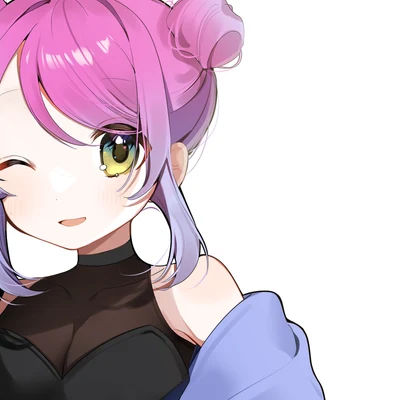
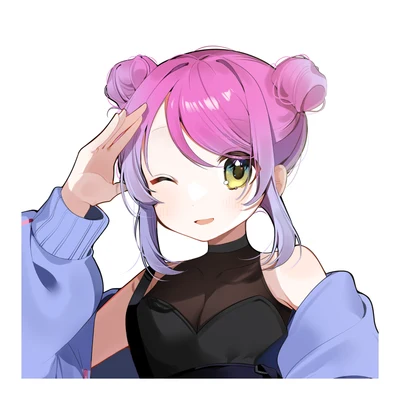
ぱんみみさんの紹介文とアイコンの位置を、本人の依頼どおりに直す

diff --git a/tools/_panmimi_src_1003.js b/tools/_panmimi_src_1003.js
@@ -1,0 +1,23 @@
+// ぱんみみさんの素材（Drive）を手元に落とす。アイコンの切り抜きを直すための確認用（2026-10-03）
+//   使い方: node _panmimi_src_1003.js <出力フォルダ>
+const fs = require("fs");
+const path = require("path");
+require("dotenv").config({ path: path.join(__dirname, "..", "..", "e-katsu", ".env") });
+const { google } = require("googleapis");
+const a = new google.auth.OAuth2(process.env.GOOGLE_CLIENT_ID, process.env.GOOGLE_CLIENT_SECRET);
+a.setCredentials({ refresh_token: process.env.GOOGLE_REFRESH_TOKEN });
+const drive = google.drive({ version: "v3", auth: a });
+const PARENT = process.env.VTUBER_DELIVERY_PARENT_ID || "1OYvATSqyoo8E-sl2WvVS4Ev9pFgwoH7U";
+const out = process.argv[2];
+const ls = async (q, fields) => (await drive.files.list({ q, fields: `files(${fields})`, pageSize: 100, supportsAllDrives: true, includeItemsFromAllDrives: true })).data.files || [];
+(async () => {
+  const person = (await ls(`name = 'ぱんみみ' and '${PARENT}' in parents and mimeType = 'application/vnd.google-apps.folder' and trashed = false`, "id,name"))[0];
+  const assets = (await ls(`name = '02_2Dデータ素材' and '${person.id}' in parents and trashed = false`, "id,name"))[0];
+  const files = await ls(`'${assets.id}' in parents and trashed = false`, "id,name,mimeType,createdTime,imageMediaMetadata(width,height)");
+  for (const f of files) {
+    console.log(f.name, f.createdTime, f.imageMediaMetadata ? f.imageMediaMetadata.width + "x" + f.imageMediaMetadata.height : "");
+    if (!/^image\//.test(f.mimeType || "")) continue;
+    const r = await drive.files.get({ fileId: f.id, alt: "media", supportsAllDrives: true }, { responseType: "arraybuffer" });
+    fs.writeFileSync(path.join(out, "pm_" + f.name), Buffer.from(r.data));
+  }
+})().catch(e => { console.error("ERROR:", e.message); process.exit(1); });

diff --git a/news/supporter-2026-09-28.html b/news/supporter-2026-09-28.html
@@ -58,7 +58,7 @@
         </figure>
         <p>e活が協賛する大会を、カジュアルに応援してくれる「e活カジュアルサポーター」に、新しく2名の仲間が加わりました。</p>
         <ul>
-          <li><strong>ぱんみみ</strong>｜Call of Dutyを中心に、視聴者さんとコミュニケーションを取りながら楽しく配信しています。 <a target="_blank" rel="noopener" href="https://x.com/pan_33_mimi">@pan_33_mimi</a></li>
+          <li><strong>ぱんみみ</strong>｜Call of Dutyを中心に配信。eスポーツが好きで、遊ぶのも観るのも楽しんでいます。 <a target="_blank" rel="noopener" href="https://x.com/pan_33_mimi">@pan_33_mimi</a></li>
           <li><strong>ぺんぺん</strong>｜方言をうまく利用して遊びに来てくれた人はみんな友達をテーマに配信しています。 VALORANT / APEX Legends。 <a target="_blank" rel="noopener" href="https://x.com/Nissy14843663">@Nissy14843663</a></li>
         </ul>
         <p>プロフィールの詳細は <a href="../vtuber.html">VTuber一覧ページ</a> からご覧いただけます。応援よろしくお願いいたします！</p>

diff --git a/tools/_merge_supporter_1003.js b/tools/_merge_supporter_1003.js
@@ -9,7 +9,7 @@ const ROOT = path.join(__dirname, "..");
 const { publishSupporterNews } = require("./supporter-news");
 
 const people = [
-  { slug: "vt18", name: "ぱんみみ", displayName: "ぱんみみ", bio: "Call of Dutyを中心に、視聴者さんとコミュニケーションを取りながら楽しく配信しています。", xHandle: "@pan_33_mimi" },
+  { slug: "vt18", name: "ぱんみみ", displayName: "ぱんみみ", bio: "Call of Dutyを中心に配信。eスポーツが好きで、遊ぶのも観るのも楽しんでいます。", xHandle: "@pan_33_mimi" },
   { slug: "vt19", name: "ぺんぺん", displayName: "ぺんぺん", bio: "方言をうまく利用して遊びに来てくれた人はみんな友達をテーマに配信しています。 VALORANT / APEX Legends。", xHandle: "@Nissy14843663" },
 ];
 const OLD = "supporter-2026-09-24", KEEP = "supporter-2026-09-28";

diff --git a/vtuber.html b/vtuber.html
@@ -263,7 +263,7 @@
         <article class="vt-card">
           <img class="vt-card__photo" src="assets/img/vtuber/vt18.webp" alt="ぱんみみ" width="200" height="200" loading="lazy" />
           <h3 class="vt-card__name">ぱんみみ</h3>
-          <p class="vt-card__bio">Call of Dutyを中心に、視聴者さんとコミュニケーションを取りながら楽しく配信しています。</p>
+          <p class="vt-card__bio">Call of Dutyを中心に配信。eスポーツが好きで、遊ぶのも観るのも楽しんでいます。</p>
           <div class="vt-card__links">
             <a href="https://x.com/pan_33_mimi" target="_blank" rel="noopener">X</a>
             <a href="https://twitch.tv/pan_mimi33" target="_blank" rel="noopener">Twitch</a>
